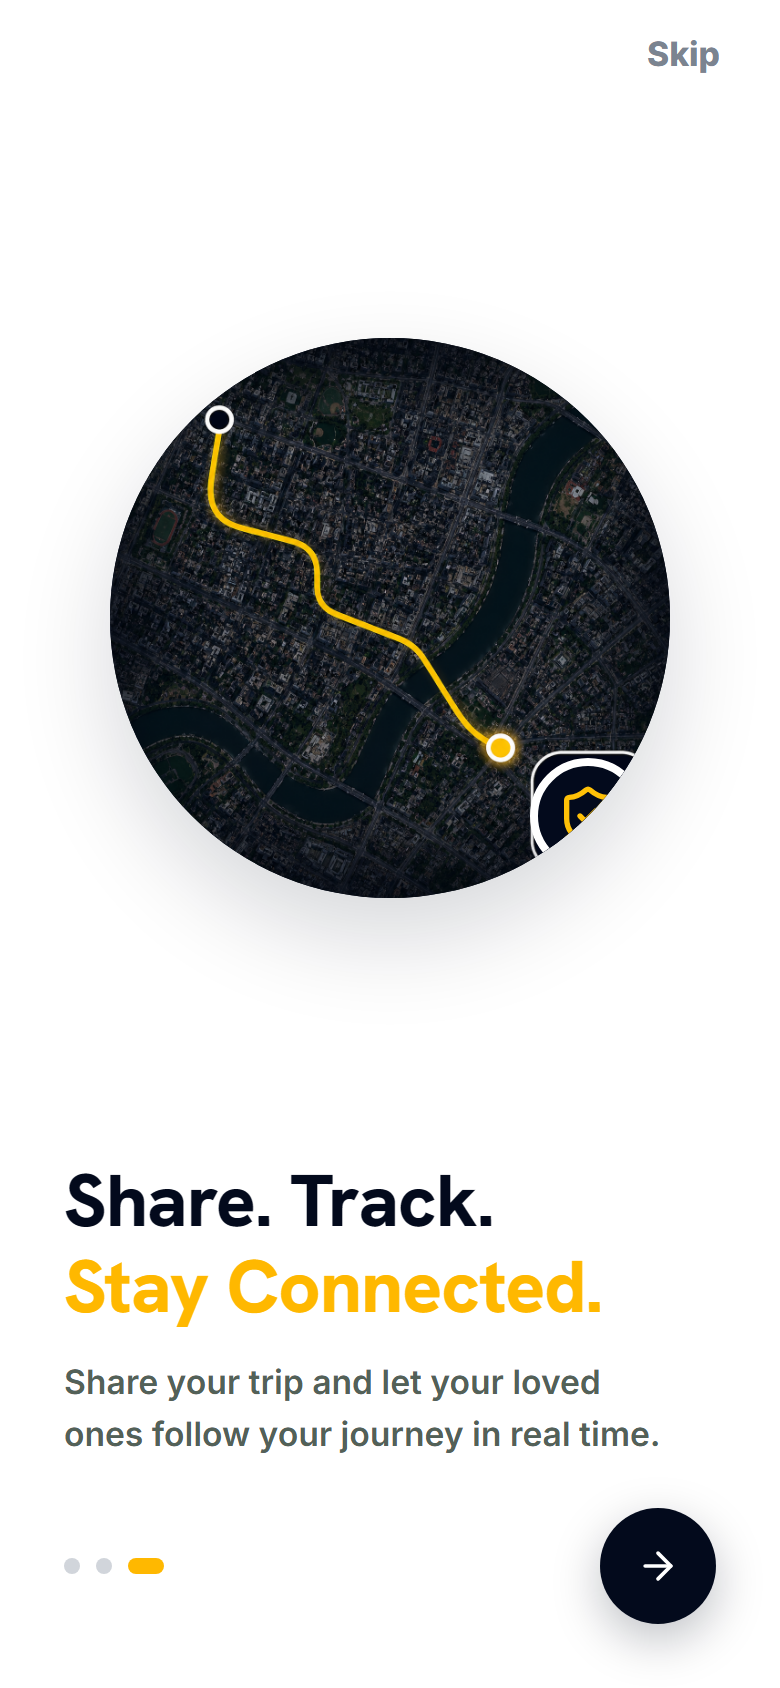
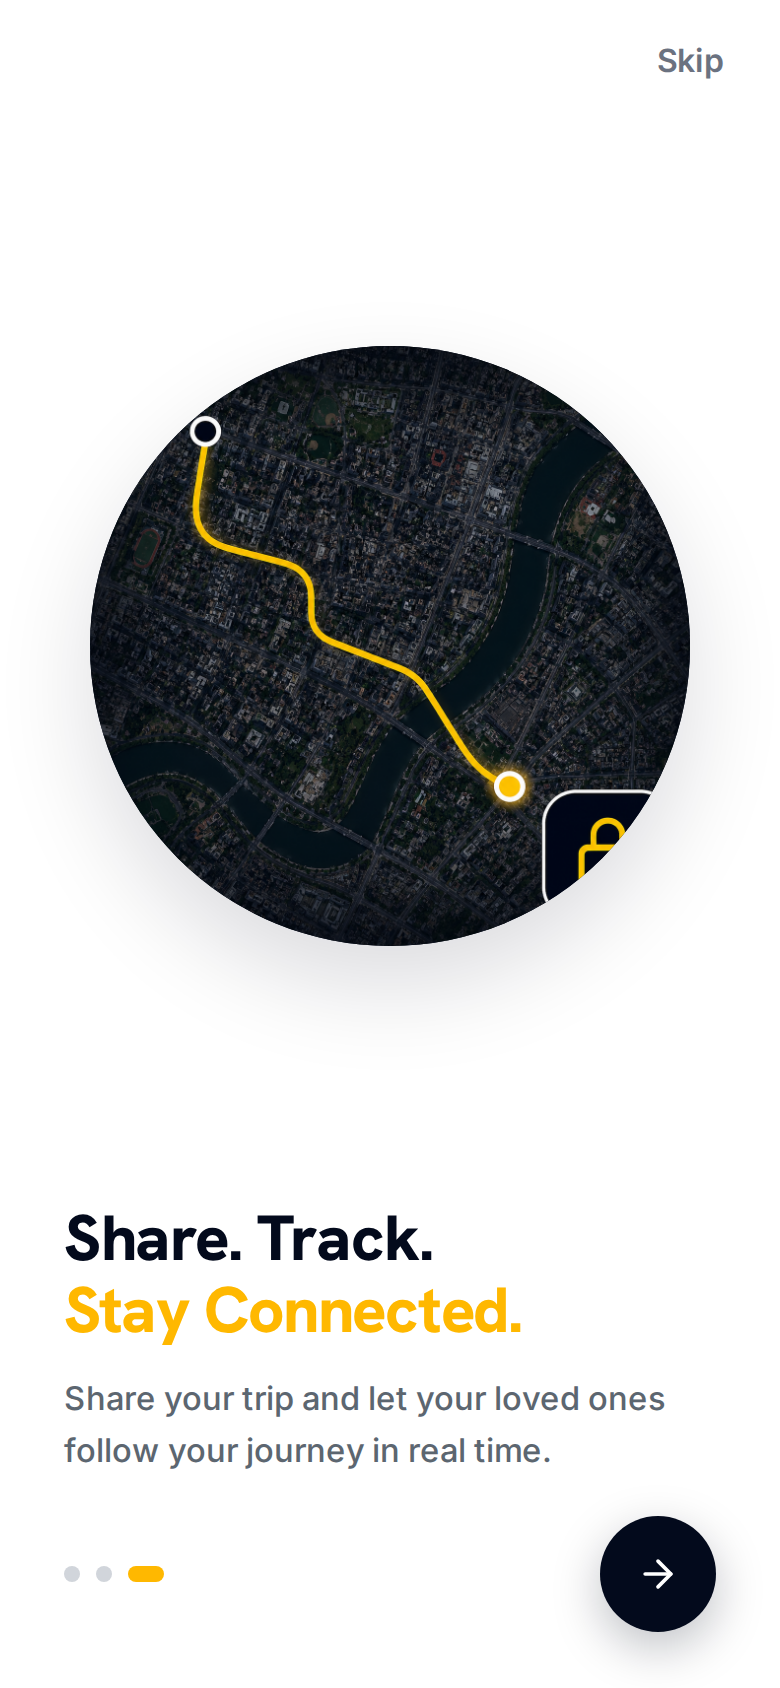
Rebuild onboarding screens with correct hero assets (#41)
* Rebuild onboarding screens with correct hero assets

Replace CSS-drawn driver placeholder on Safety First with the real
green bus protection illustration. Align all three screens to a shared
light-circle / dark-map hero system matching the reference layout.
Remove redundant shield badge on the map tracking screen.

* Add onboarding capture script and refreshed QA screenshots

---------

diff --git a/apps/mobile/src/styles.css b/apps/mobile/src/styles.css
@@ -474,97 +474,85 @@ button {
 .onboarding-screen {
   display: flex;
   flex-direction: column;
-  background: #fff;
+  background: #ffffff;
   padding-top: var(--safe-top);
+  min-height: 100%;
   height: 100%;
-  justify-content: space-between;
 }
 
 .skip-row {
   display: flex;
   justify-content: flex-end;
-  padding: 16px 24px 0;
+  flex-shrink: 0;
+  padding: 12px 24px 0;
 }
 
 .skip-row button {
   border: 0;
   background: transparent;
-  color: #7b8490;
-  font-weight: 800;
-  font-size: 1.05rem;
+  color: #6b7280;
+  font-weight: 600;
+  font-size: 1rem;
+  letter-spacing: 0.01em;
+  padding: 8px 4px;
 }
 
 .onboarding-visual {
-  flex: 1;
-  display: grid;
-  place-items: center;
-  padding: 12px 32px;
+  flex: 1 1 auto;
+  display: flex;
+  align-items: center;
+  justify-content: center;
+  min-height: 0;
+  padding: 8px 28px 4px;
 }
 
 .illustration-circle {
   position: relative;
-  width: min(280px, 72vw);
-  height: min(280px, 72vw);
+  width: min(300px, 78vw);
+  height: min(300px, 78vw);
   aspect-ratio: 1;
   border-radius: 50%;
   display: grid;
   place-items: center;
-  background: radial-gradient(circle, #ffffff 0%, #f1f5f9 100%);
+  flex-shrink: 0;
+}
+
+.illustration-circle--light {
+  background: radial-gradient(circle at 50% 42%, #ffffff 0%, #f3f6f9 58%, #e8edf2 100%);
   overflow: visible;
-  box-shadow: 0 20px 48px rgba(0, 0, 0, 0.04);
+  box-shadow: 0 18px 44px rgba(15, 23, 42, 0.06);
 }
 
-.illustration-circle.driver {
-  background: radial-gradient(circle at 50% 35%, #ffffff 0 25%, transparent 26%),
-              linear-gradient(135deg, #f5f8fa 0%, #e1e7ec 100%);
-}
-
-.driver-wheel {
-  display: none;
-}
-
-.driver-face {
-  position: absolute;
-  top: 66px;
-  left: calc(50% - 31px);
-  width: 62px;
-  height: 62px;
-  border-radius: 50%;
-  background: #9b5f36;
-  box-shadow: 0 -14px 0 #1e293b inset;
-}
-
-.driver-body {
-  position: absolute;
-  top: 130px;
-  left: calc(50% - 60px);
-  width: 120px;
-  height: 85px;
-  border-radius: 42px 42px 22px 22px;
-  background: #007a3d;
-}
-
-.illustration-circle.map {
+.illustration-circle--map {
   background: #070f20;
   overflow: hidden;
-  box-shadow: 0 20px 48px rgba(3, 10, 28, 0.16);
-}
-
-.real-map-illustration {
-  width: 100%;
-  height: 100%;
-  display: block;
-  object-fit: cover;
-  transform: scale(1.02);
+  box-shadow: 0 20px 48px rgba(3, 10, 28, 0.14);
 }
 
 .onboarding-asset {
   position: relative;
   z-index: 1;
-  width: 82%;
-  height: auto;
   display: block;
-  transform: translateY(6px);
+  height: auto;
+  pointer-events: none;
+  user-select: none;
+}
+
+.onboarding-asset--cover {
+  width: 88%;
+  transform: translateY(4px);
+}
+
+.onboarding-asset--safety {
+  width: 94%;
+  transform: translateY(2px);
+}
+
+.onboarding-asset--map {
+  width: 100%;
+  height: 100%;
+  object-fit: cover;
+  transform: scale(1.03);
 }
 
 .shield-badge {
@@ -584,7 +572,8 @@ button {
 }
 
 .onboarding-copy {
-  padding: 0 32px;
+  flex-shrink: 0;
+  padding: 8px 32px 0;
   text-align: left;
 }
 
@@ -592,10 +581,10 @@ button {
   margin: 0;
   color: #030a1c;
   font-family: "Hanken Grotesk", "Outfit", Inter, sans-serif;
-  font-size: 2.3rem;
+  font-size: clamp(2rem, 6.2vw, 2.35rem);
   font-weight: 800;
-  line-height: 1.15;
-  letter-spacing: -0.01em;
+  line-height: 1.12;
+  letter-spacing: -0.02em;
 }
 
 .onboarding-copy h1 span {
@@ -603,19 +592,21 @@ button {
 }
 
 .onboarding-copy p {
-  max-width: 310px;
+  max-width: 320px;
   margin: 14px 0 0;
-  color: #536158;
-  font-size: 1.05rem;
+  color: #5c6670;
+  font-size: 1.02rem;
   line-height: 1.55;
-  font-weight: 600;
+  font-weight: 500;
 }
 
 .onboarding-footer {
   display: flex;
   align-items: center;
   justify-content: space-between;
-  padding: 24px 32px calc(32px + var(--safe-bottom));
+  flex-shrink: 0;
+  margin-top: auto;
+  padding: 20px 32px calc(28px + var(--safe-bottom));
 }
 
 .progress-dots {

diff --git a/apps/mobile/src/App.jsx b/apps/mobile/src/App.jsx
@@ -40,8 +40,7 @@ import shareTrackMap from './assets/share-track-map.png';
 import heroContainerMobile from './assets/hero/safe_hero_container_mobile_transparent.png';
 import heroContainerLarge from './assets/hero/safe_hero_container_transparent.png';
 import busHeroCity from './assets/real/bus_hero_city_clean.png';
-import coverVerificationArt from './assets/real/cover_verification_clean.png';
-import roadToSecurityArt from './assets/transport/mint_green_road_to_security_and_peace_transparent.png';
+import safetyProtectArt from './assets/transport/green_bus_with_protective_emblem_transparent.png';
 import HomeScreen from './screens/HomeScreen.jsx';
 import CoverScreen from './screens/CoverScreen.jsx';
 import CoverPlanSelectScreen from './screens/CoverPlanSelectScreen.jsx';
@@ -751,9 +750,9 @@ function OnboardingOne({ setScreen }) {
       step={1}
       title="Cover your trip"
     >
-      <div className="illustration-circle">
-        <img className="onboarding-asset" src={busHeroCity} alt="" aria-hidden="true" />
-        <div className="shield-badge">
+      <div className="illustration-circle illustration-circle--light">
+        <img className="onboarding-asset onboarding-asset--cover" src={busHeroCity} alt="" aria-hidden="true" />
+        <div className="shield-badge" aria-hidden="true">
           <ShieldCheck size={32} />
         </div>
       </div>
@@ -771,11 +770,9 @@ function OnboardingTwo({ setScreen }) {
       step={2}
       title="Safety First,"
     >
-      <div className="illustration-circle driver">
-        <div className="driver-wheel" />
-        <div className="driver-face" />
-        <div className="driver-body" />
-        <div className="shield-badge">
+      <div className="illustration-circle illustration-circle--light">
+        <img className="onboarding-asset onboarding-asset--safety" src={safetyProtectArt} alt="" aria-hidden="true" />
+        <div className="shield-badge" aria-hidden="true">
           <ShieldCheck size={32} />
         </div>
       </div>
@@ -793,11 +790,8 @@ function OnboardingThree({ setScreen }) {
       step={3}
       title="Share. Track."
     >
-      <div className="illustration-circle map">
-        <img className="real-map-illustration" src={shareTrackMap} alt="" aria-hidden="true" />
-        <div className="shield-badge">
-          <ShieldCheck size={32} />
-        </div>
+      <div className="illustration-circle illustration-circle--map">
+        <img className="onboarding-asset onboarding-asset--map" src={shareTrackMap} alt="" aria-hidden="true" />
       </div>
     </OnboardingShell>
   );